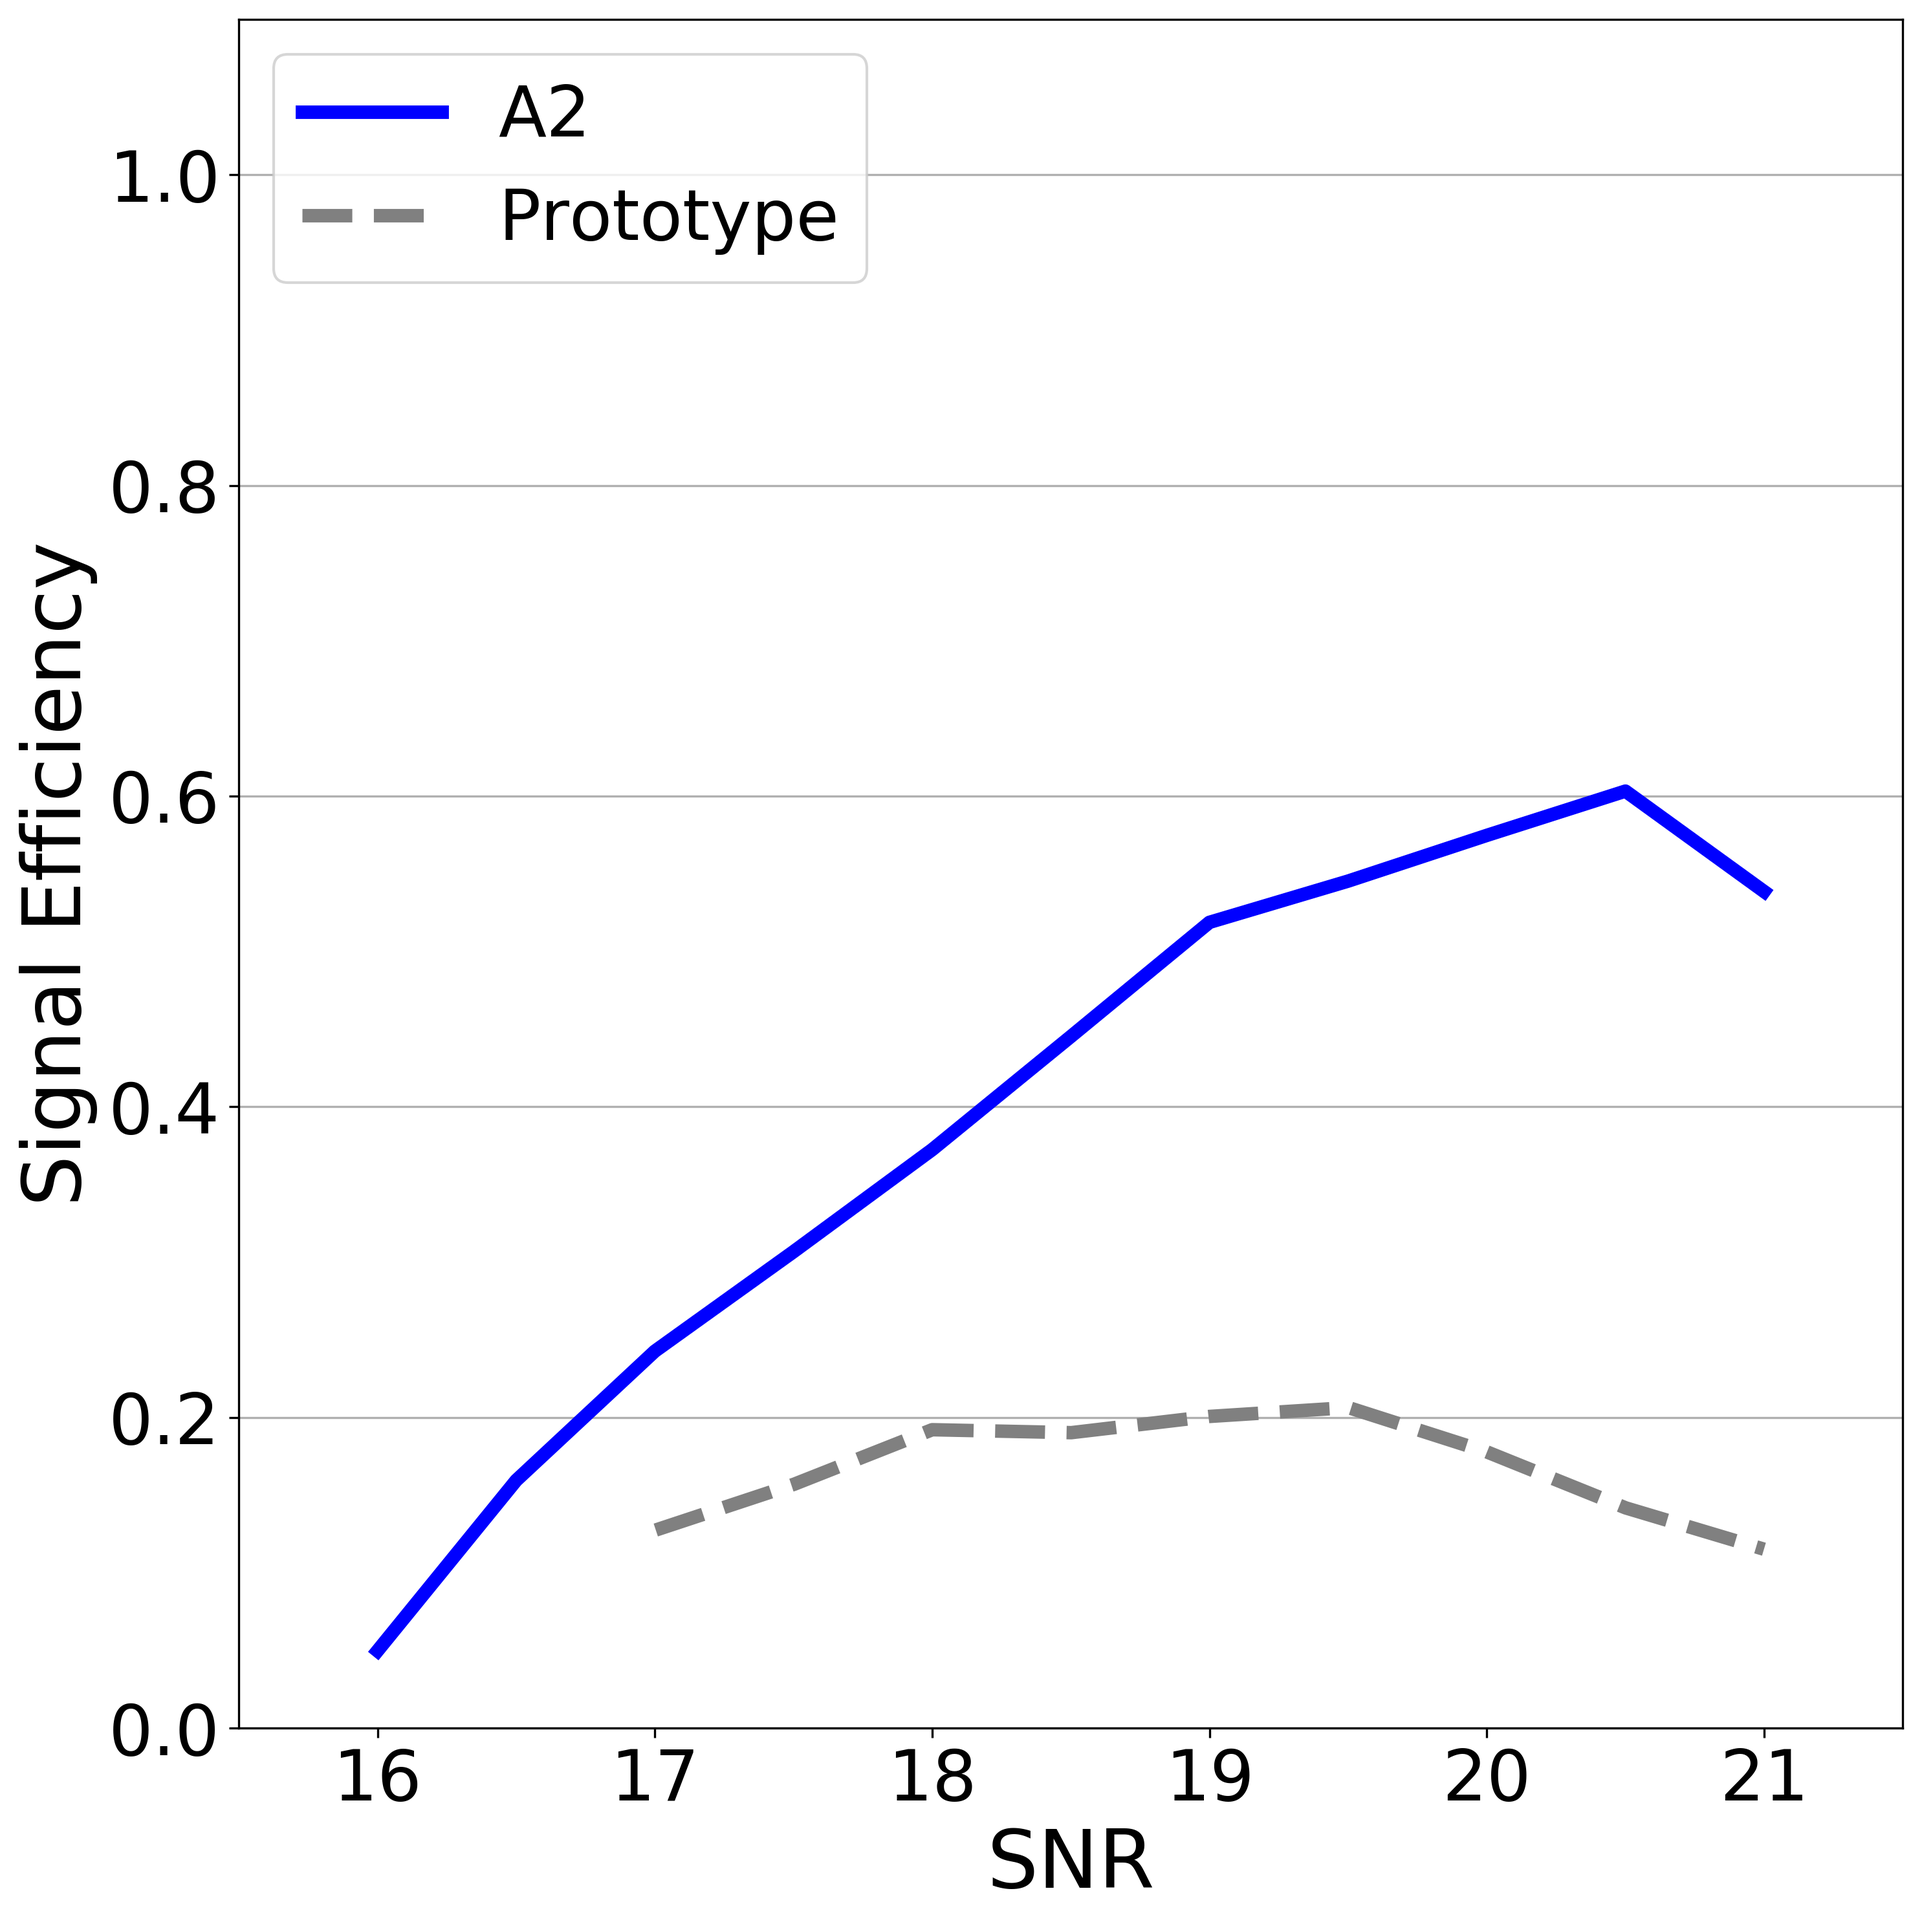
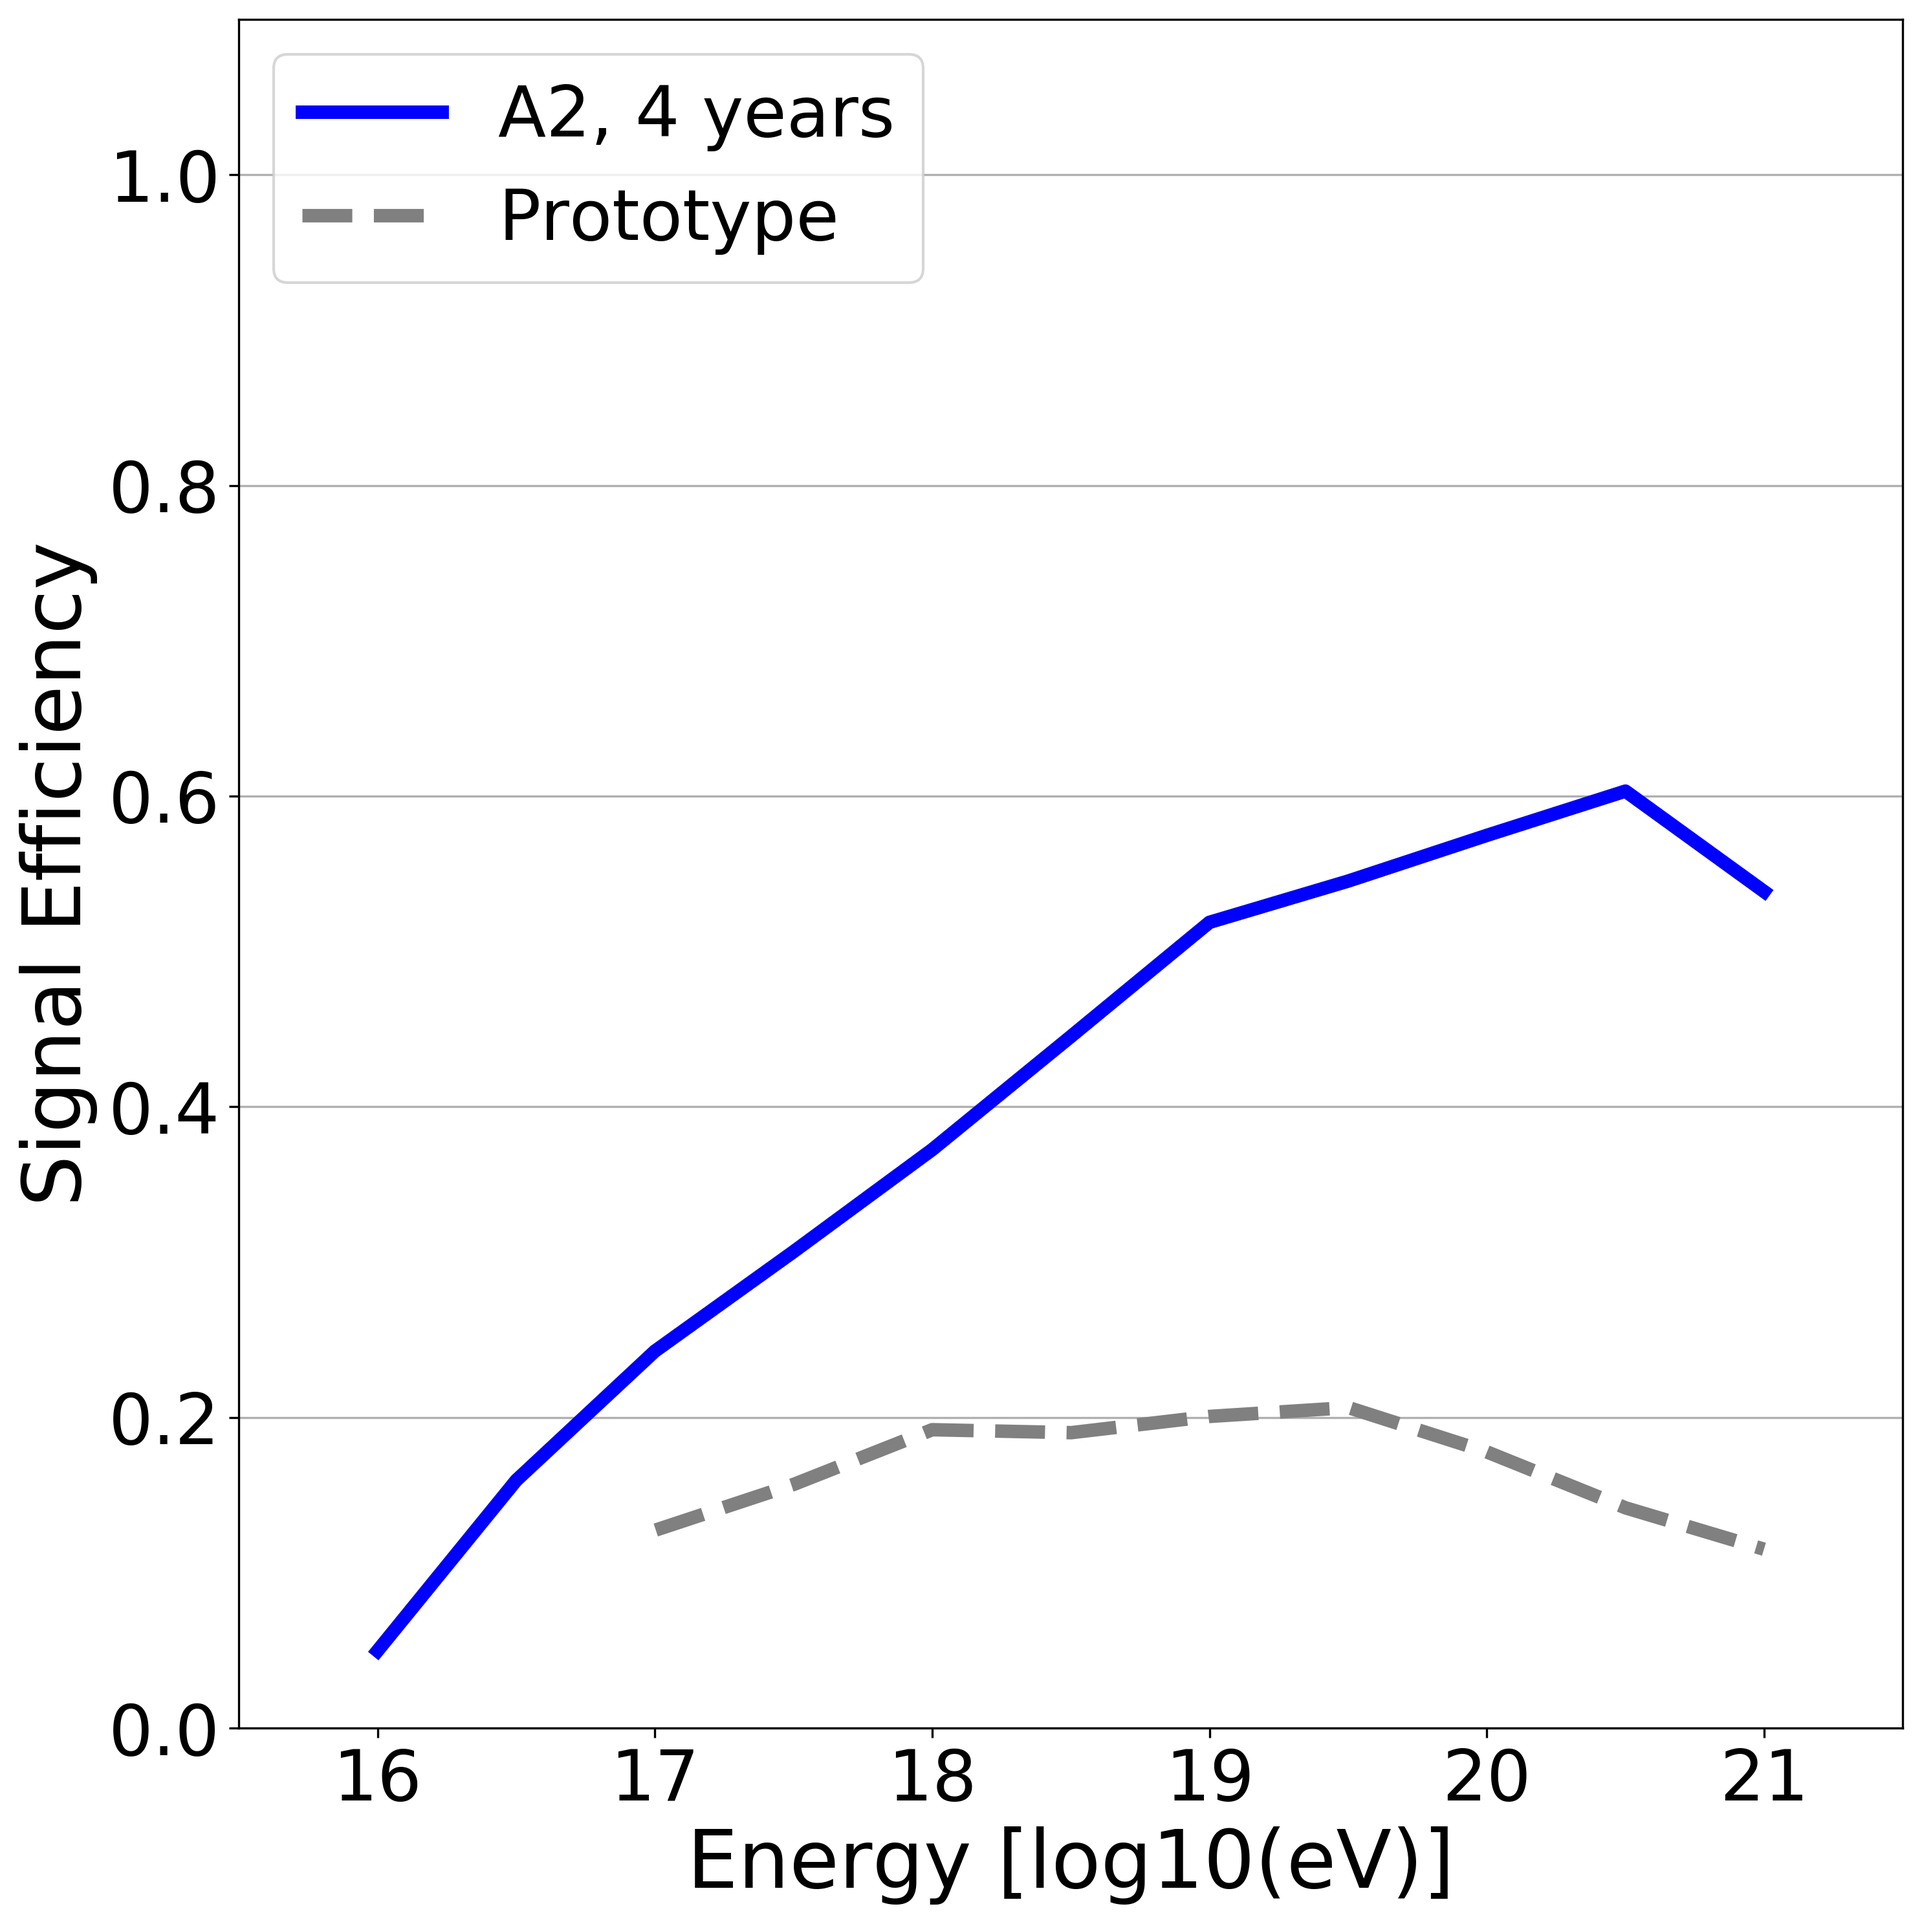
fix axis label on energy plot

Changed region(s): [[0.3406, 0.9277, 0.7742, 0.9896], [0.3406, 0.0309, 0.4645, 0.0928]]

diff --git a/talks/2020.05-Gen2-Radio/efficiency_comparison/plotSignalEfficiency_all.py b/talks/2020.05-Gen2-Radio/efficiency_comparison/plotSignalEfficiency_all.py
@@ -10,7 +10,7 @@ ax = plt.subplot(1,1,1)
 data_a2_snr = np.genfromtxt("A2_signalEfficiencyVsChannelInWindowSNR_E-2.13.csv",delimiter=',',skip_header=0,names=['snr','eff'])
 a2_snr = data_a2_snr['snr']
 a2_snr_eff = data_a2_snr['eff']
-ax.plot(a2_snr, a2_snr_eff, '-', color='blue', label='A2', linewidth=5)
+ax.plot(a2_snr, a2_snr_eff, '-', color='blue', label='A2, 4 years', linewidth=5)
 
 data_tb_snr = np.genfromtxt("testbed_eff_vs_snr.csv",delimiter=',',skip_header=1,names=['snr','eff'])
 tb_snr = data_tb_snr['snr']
@@ -42,7 +42,7 @@ a2_energy = data_a2_energy['energy']
 a2_energy_eff = data_a2_energy['eff']
 a2_energy = np.log10(a2_energy)
 a2_energy+=9
-ax2.plot(a2_energy, a2_energy_eff, '-', color='blue', label='A2', linewidth=5)
+ax2.plot(a2_energy, a2_energy_eff, '-', color='blue', label='A2, 4 years', linewidth=5)
 
 data_tb_energy = np.genfromtxt("testbed_eff_vs_energy.csv",delimiter=',',skip_header=1,names=['energy','eff'])
 tb_energy = data_tb_energy['energy']
@@ -52,7 +52,7 @@ ax2.plot(tb_energy, tb_energy_eff, '--', color='grey', label='Prototype', linewi
 
 ax2.set_ylim(0,1.1)
 ax2.set_xlim(15.5,21.5)
-ax2.set_xlabel('SNR', fontsize=30)
+ax2.set_xlabel(r'Energy [log10(eV)]', fontsize=30)
 ax2.set_ylabel('Signal Efficiency', fontsize=30)
 # ax.set_title('A2 Efficiency vs SNR', fontsize=30)
 ax2.grid(which='both',axis='y')
